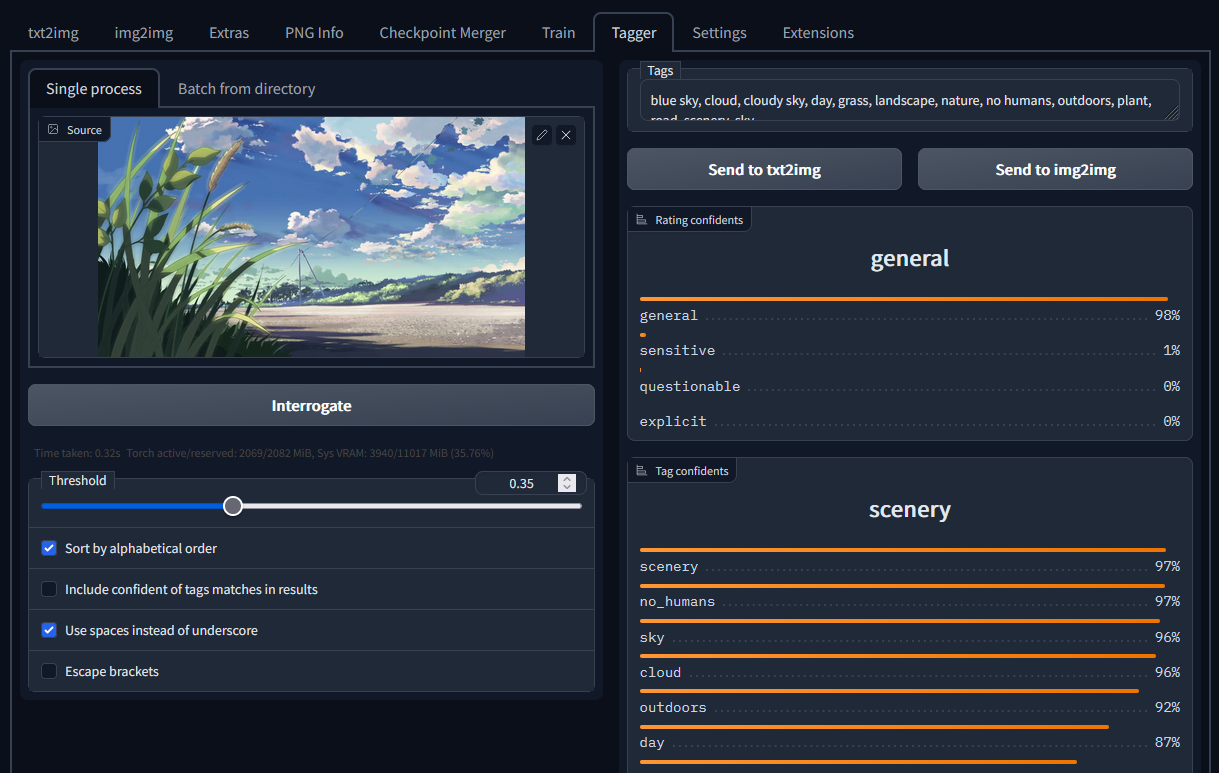
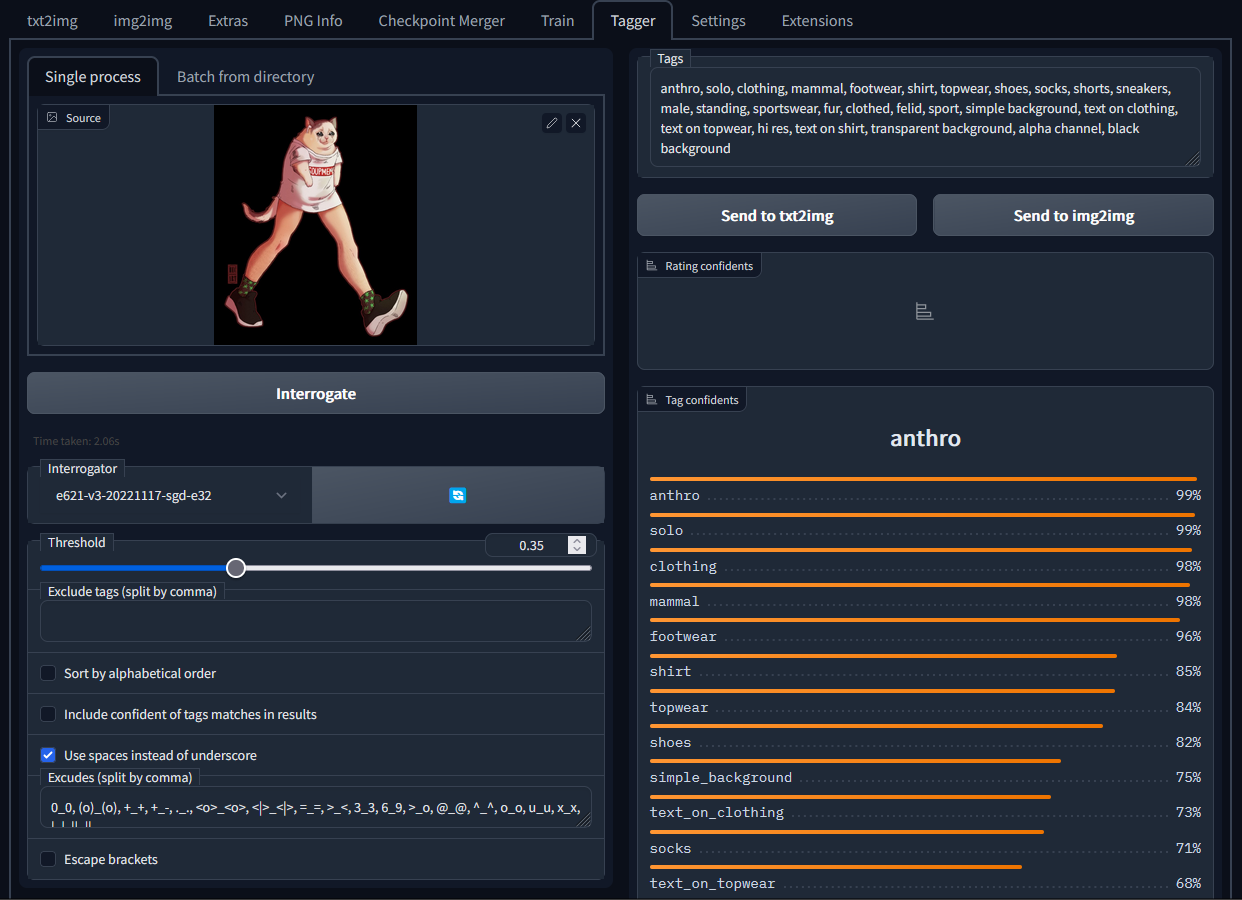
docs: update screenshot

diff --git a/README.md b/README.md
@@ -78,6 +78,8 @@ I didn't make any models, and most of the code was heavily borrowed from the [De
 ## Screenshot
 ![Screenshot](docs/screenshot.png)
 
+Artwork made by [hecattaart](https://vk.com/hecattaart?w=wall-89063929_3767)
+
 ## Copyright
 
 Public domain, except borrowed parts (e.g. `dbimutils.py`)
